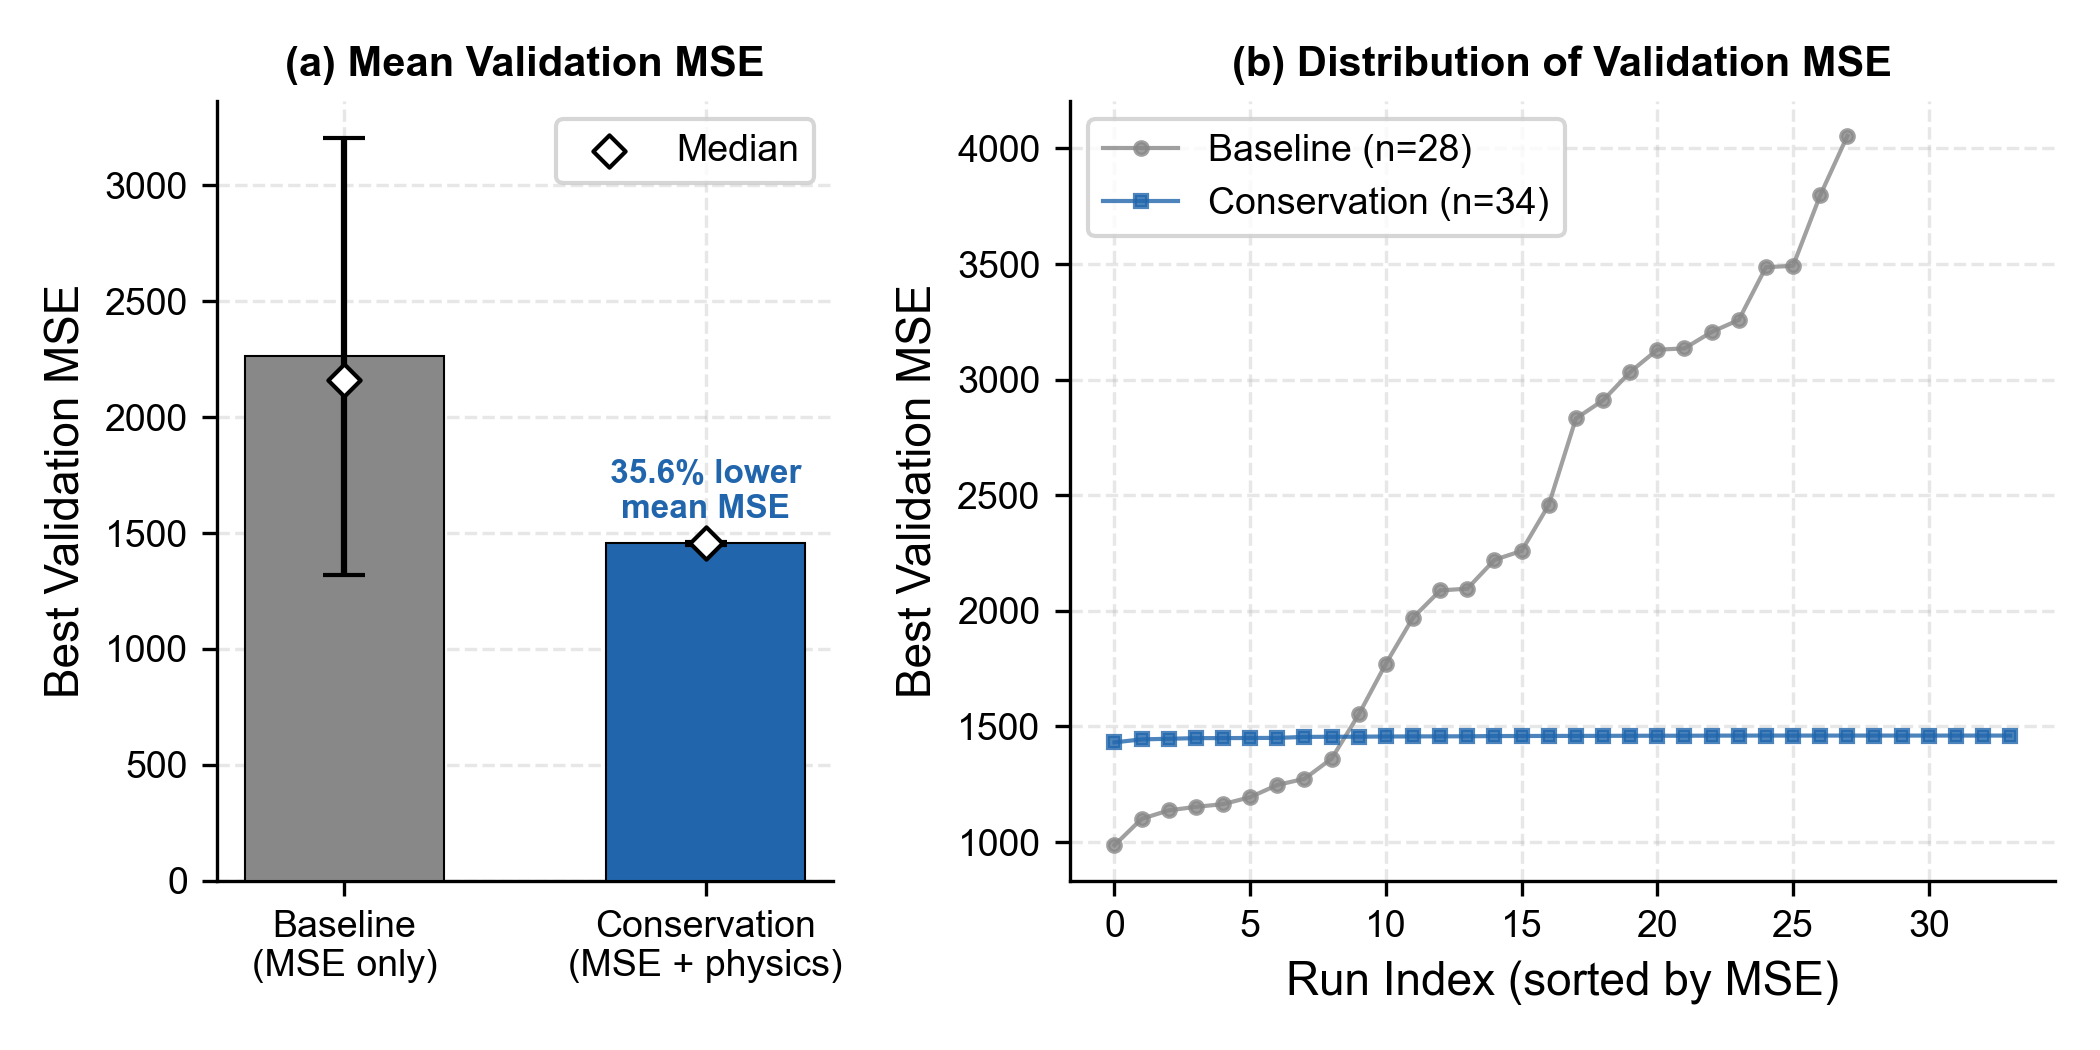
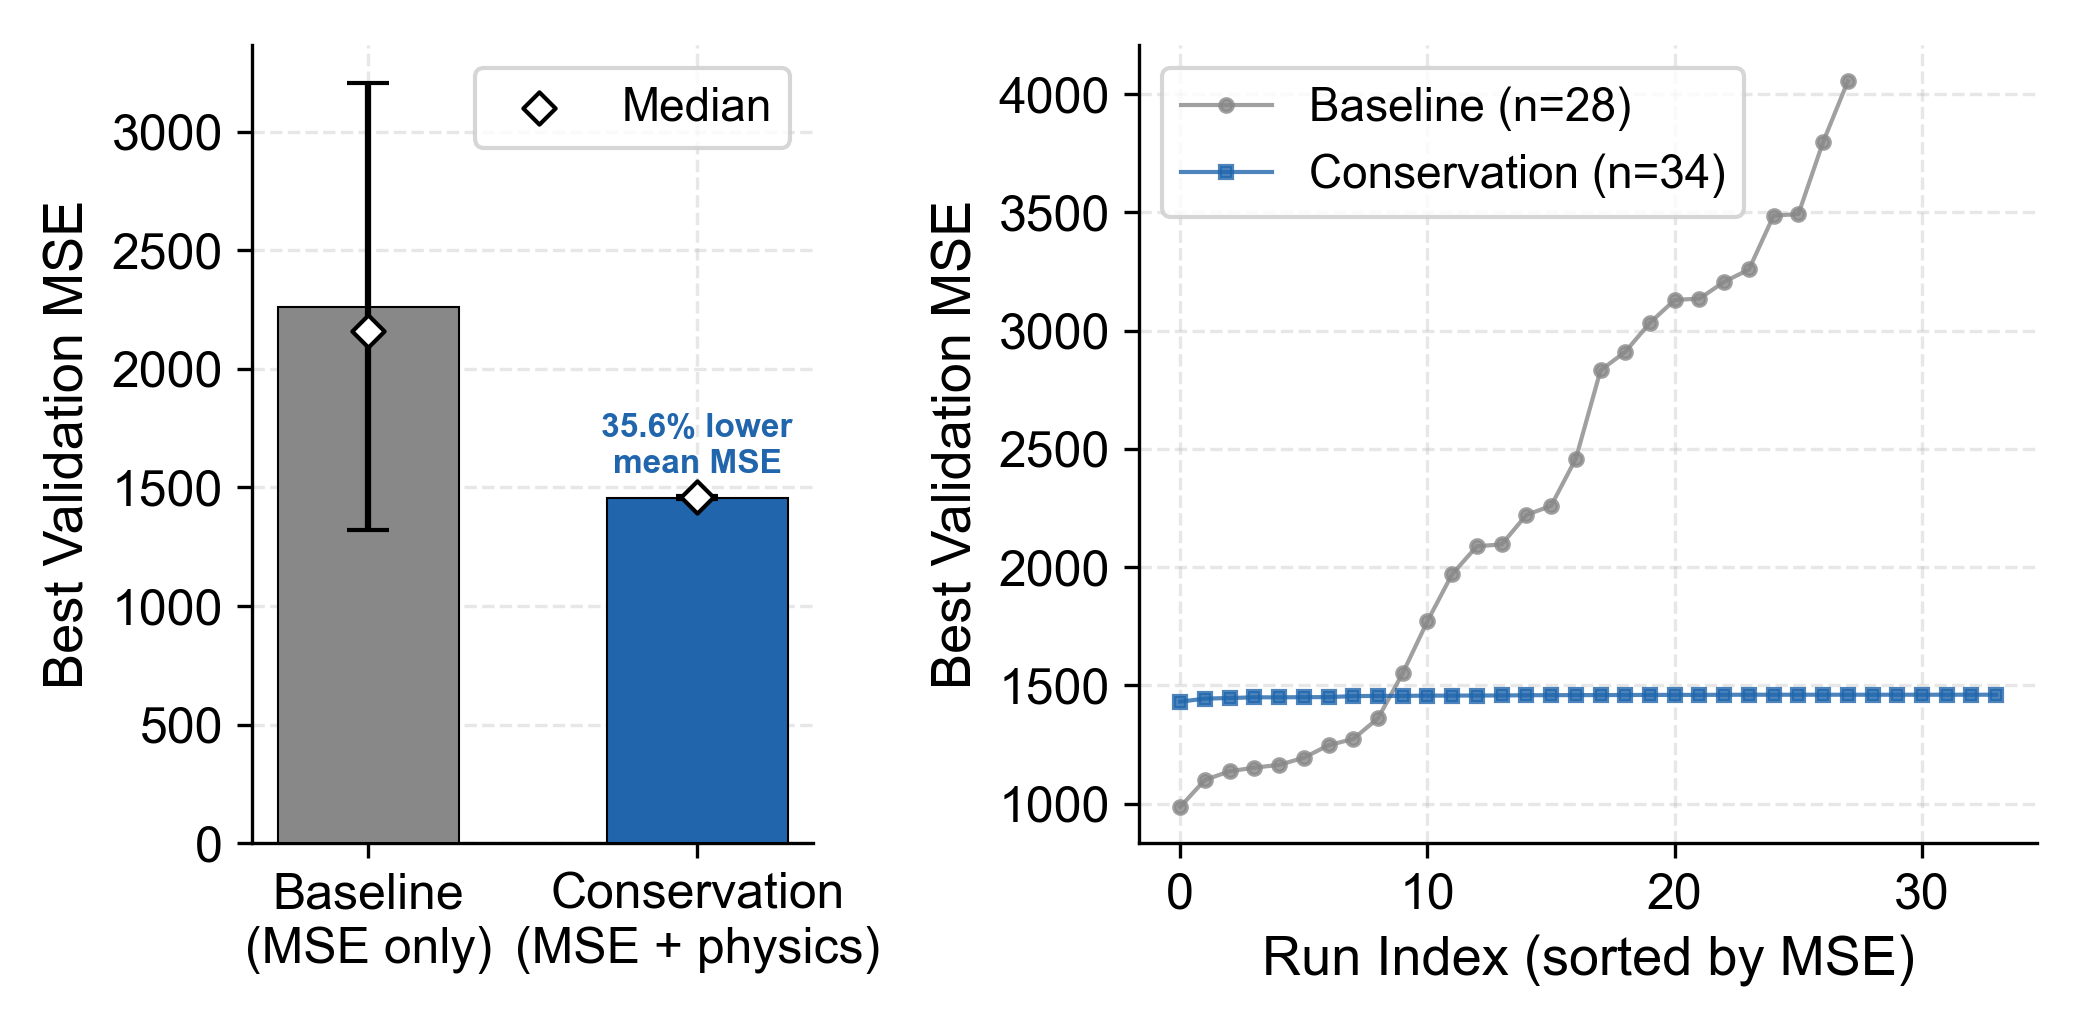
Remove graph titles, increase font sizes for eiRxiv compliance
- Remove all set_title() and suptitle() calls (eiRxiv requires titles
  in captions only, not on graphs)
- Increase axis labels to >=12pt, tick labels to 12pt, legend to 11-12pt
  (eiRxiv minimum 12pt for graph text)
- Gray out diagonal values in Figure A2 correlation heatmap
- Fix appendix figure font size override that was resetting to smaller sizes

diff --git a/generate_figures.py b/generate_figures.py
@@ -34,12 +34,12 @@ from scipy import stats
 plt.rcParams.update({
     'font.family': 'sans-serif',
     'font.sans-serif': ['Arial', 'Helvetica', 'DejaVu Sans'],
-    'font.size': 10,
-    'axes.titlesize': 12,
-    'axes.labelsize': 11,
-    'xtick.labelsize': 9,
-    'ytick.labelsize': 9,
-    'legend.fontsize': 9,
+    'font.size': 12,
+    'axes.titlesize': 14,
+    'axes.labelsize': 13,
+    'xtick.labelsize': 12,
+    'ytick.labelsize': 12,
+    'legend.fontsize': 11,
     'figure.dpi': 300,
     'savefig.dpi': 300,
     'savefig.bbox': 'tight',
@@ -95,7 +95,6 @@ def fig1_mse_comparison(groups, outdir):
             edgecolor='black', linewidth=0.5, width=0.55, zorder=3)
     ax1.scatter([0, 1], medians, marker='D', color='white', edgecolor='black', s=30, zorder=4, label='Median')
     ax1.set_ylabel('Best Validation MSE')
-    ax1.set_title('(a) Mean Validation MSE', fontsize=10, fontweight='bold')
     ax1.legend(loc='upper right', framealpha=0.8)
 
     pct = (means[0] - means[1]) / means[0] * 100
@@ -109,7 +108,6 @@ def fig1_mse_comparison(groups, outdir):
              markersize=3, linewidth=1, label=f'Conservation (n={len(cn_mse)})', alpha=0.8)
     ax2.set_xlabel('Run Index (sorted by MSE)')
     ax2.set_ylabel('Best Validation MSE')
-    ax2.set_title('(b) Distribution of Validation MSE', fontsize=10, fontweight='bold')
     ax2.legend(loc='upper left', framealpha=0.8)
 
     fig.tight_layout()
@@ -152,7 +150,6 @@ def fig2_conservation_drift(groups, outdir):
             plt.setp(bp[element], color='black', linewidth=0.8)
 
         ax.set_yscale('log')
-        ax.set_title(title, fontsize=9, fontweight='bold')
         if ax == axes[0]:
             ax.set_ylabel('Drift (log scale)')
 
@@ -168,8 +165,7 @@ def fig2_conservation_drift(groups, outdir):
                    color=color, fontweight='bold',
                    bbox=dict(boxstyle='round,pad=0.3', facecolor='white', edgecolor=color, alpha=0.9))
 
-    fig.suptitle('Conservation Law Preservation Over 500-Step Rollouts', fontsize=11, fontweight='bold')
-    fig.tight_layout(rect=[0, 0, 1, 0.95])
+    fig.tight_layout()
     path = outdir / 'fig2_conservation_drift.png'
     fig.savefig(path)
     plt.close(fig)
@@ -226,7 +222,6 @@ def fig3_parallel_coordinates(groups, outdir):
     ax.set_xticks(x_positions)
     ax.set_xticklabels(dim_labels, fontsize=9)
     ax.set_ylabel('Normalized Value')
-    ax.set_title('Hyperparameter Parallel Coordinates (blue = lower MSE)', fontsize=10, fontweight='bold')
 
     for i, d in enumerate(dims):
         ax.text(i, -0.12, f'{mins[d]:.3g}', ha='center', fontsize=7, color='gray')
@@ -262,14 +257,12 @@ def fig4_500step_comparison(groups, outdir):
     ax1.set_yscale('log')
     ax1.set_xlabel('Run Index (sorted)')
     ax1.set_ylabel('500-Step Position MSE (log)')
-    ax1.set_title('(a) 500-Step MSE: All Runs', fontsize=10, fontweight='bold')
     ax1.legend(loc='upper left', framealpha=0.8)
 
     ax2.scatter(range(len(cn_500)), cn_500, c=COLORS['conservation'], s=20, alpha=0.8, zorder=3)
     ax2.set_xlabel('Run Index (sorted)')
     ax2.set_ylabel('500-Step Position MSE')
     cn_mean, cn_std = np.mean(cn_500), np.std(cn_500)
-    ax2.set_title(f'(b) Conservation Detail: {cn_mean:.1f} \u00b1 {cn_std:.1f}', fontsize=10, fontweight='bold')
     ax2.axhline(cn_mean, color=COLORS['conservation'], linestyle='--', alpha=0.5)
 
     fig.tight_layout()
@@ -317,7 +310,6 @@ def fig5_error_growth(groups, outdir, rollout_csv=None):
 
     ax1.set_xlabel('Rollout Steps')
     ax1.set_ylabel('Position MSE')
-    ax1.set_title('(a) Error Growth (log-log)', fontsize=10, fontweight='bold')
     ax1.legend(loc='lower right', framealpha=0.8, fontsize=8)
 
     ratio = bl_means / cn_means
@@ -327,7 +319,6 @@ def fig5_error_growth(groups, outdir, rollout_csv=None):
     ax2.axhline(1, color='gray', linestyle='--', alpha=0.5)
     ax2.set_xlabel('Rollout Steps')
     ax2.set_ylabel('Baseline / Conservation MSE')
-    ax2.set_title('(b) Conservation Advantage', fontsize=10, fontweight='bold')
     ax2.set_xscale('log')
 
     fig.tight_layout()
@@ -372,7 +363,6 @@ def fig6_ablation(groups, outdir):
     ax.set_xticks(range(len(configs)))
     ax.set_xticklabels([c[0] for c in configs], fontsize=9)
     ax.set_ylabel('500-Step Position MSE (log scale)')
-    ax.set_title('Ablation: 500-Step MSE by Conservation Configuration', fontsize=11, fontweight='bold', pad=20)
 
     fig.tight_layout(pad=1.5)
     path = outdir / 'fig6_ablation.png'
@@ -422,7 +412,6 @@ def fig_a1_drift(outdir, drift_data_path):
             ax.semilogy(time, drift, color=color, label=labels[mult],
                         linewidth=lw, linestyle=ls, alpha=0.9)
 
-        ax.set_title(title, fontweight='bold')
         ax.set_xlabel('Simulation time')
         ax.set_ylabel(ylabel)
         ax.set_xlim(0, n_steps * dt_nom)
@@ -430,9 +419,9 @@ def fig_a1_drift(outdir, drift_data_path):
 
     handles, lbls = axes[0].get_legend_handles_labels()
     fig.legend(handles, lbls, loc='upper center', ncol=5, framealpha=0.9,
-               bbox_to_anchor=(0.5, 1.02), fontsize=9)
+               bbox_to_anchor=(0.5, 1.02), fontsize=12)
 
-    fig.tight_layout(rect=[0, 0, 1, 0.93])
+    fig.tight_layout()
 
     path = outdir / 'fig_a1_drift_comparison.png'
     fig.savefig(path, dpi=300, bbox_inches='tight')
@@ -495,20 +484,19 @@ def fig_a2_correlation_heatmap(groups, outdir):
                 text = f'{val:.2f}'
                 if is_sig and is_meaningful:
                     text += '*'
-                if not is_meaningful and i != j:
+                if i == j:
+                    color = '#555555'
+                elif not is_meaningful:
                     color = '#999999' if abs(val) <= 0.6 else '#cccccc'
                 ax.text(j, i, text, ha='center', va='center',
-                        color=color, fontsize=9, fontweight=weight)
+                        color=color, fontsize=10, fontweight=weight)
 
     ax.set_xticks(range(n))
     ax.set_yticks(range(n))
-    ax.set_xticklabels(param_labels, rotation=45, ha='right', fontsize=9)
-    ax.set_yticklabels(param_labels, fontsize=9)
+    ax.set_xticklabels(param_labels, rotation=45, ha='right', fontsize=11)
+    ax.set_yticklabels(param_labels, fontsize=11)
 
     fig.colorbar(im, ax=ax, shrink=0.8, label='Pearson r')
-
-    ax.set_title('Hyperparameter Correlation Matrix\n(n=34, conservation-augmented models)',
-                 fontsize=11, fontweight='bold', pad=12)
 
     fig.text(0.5, 0.01,
              '* p < 0.05 for correlations involving an outcome metric (MSE).\n'
@@ -554,11 +542,9 @@ if __name__ == '__main__':
     fig5_error_growth(groups, outdir, rollout_csv)
     fig6_ablation(groups, outdir)
 
-    # Appendix figures use slightly different style
+    # Appendix figures: keep same font sizes, just disable grid
     print('\nAppendix figures:')
     plt.rcParams.update({
-        'axes.titlesize': 11,
-        'axes.labelsize': 10,
         'axes.grid': False,
     })
     fig_a1_drift(outdir, drift_data)
